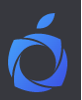
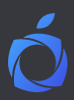
third

Changed region(s): [[0.0811, 0.33, 0.9189, 0.93], [0.4324, 0.12, 0.7568, 0.3], [0.973, 0.0, 1.0, 1.0]]

diff --git a/src/componenets/AppDownload/index.js b/src/componenets/AppDownload/index.js
@@ -4,35 +4,34 @@ import  "./style.css";
 import { FaTwitter,FaInstagram,FaTelegram} from "react-icons/fa";
 
 
-
 export default function AppDownload(){
 
   return(
     <Fragment>
-        <div className="holder">
+        <div className="holder1">
             <div className="about">
                <h3>About Us:</h3> This Website is for showing films and serials with reserving Copyright....
                <p>Download App</p>
             </div>
             <div>                
                 <div className="downloadPart">
-                    <div>
-                        <img src="../../public/assets/images/googleplay.png" />
-                        <div>
+                    <div className="ax-matn">
+                        <img src="/assets/images/googleplay.png" />
+                        <div className="matn">
                             <p>Download From </p>
                             <h4>Google Play</h4>
                         </div>
                     </div>
-                    <div>
-                        <img src="../../public/assets/images/bazar.png" />
-                        <div>
+                    <div className="ax-matn">
+                        <img src="/assets/images/bazar.png" />
+                        <div className="matn">
                             <p>Download From </p>
                             <h4>Bazar</h4>
                         </div>
                     </div>
-                    <div>
-                        <img src="../../public/assets/images/sibche.png" />
-                        <div>
+                    <div className="ax-matn">
+                        <img src="/assets/images/sibche.png" />
+                        <div className="matn">
                             <p>Download From </p>
                             <h4>Sibche</h4>
                         </div>                        

diff --git a/src/pages/SingleMovie/index.js b/src/pages/SingleMovie/index.js
@@ -4,6 +4,7 @@ import { useParams } from "react-router-dom";
 import  "./style.css";
 import Header from "../../componenets/Header";
 import Footer from "../../componenets/Footer";
+import AppDownload from "../../componenets/AppDownload";
 
 
 export default function SingleMovie(){
@@ -28,25 +29,27 @@ export default function SingleMovie(){
                 
         return   (
             <Fragment>
-                <div className="holder">
+                <div className="holder overflow">                    
                     <div class="posterHolder">
                         <img src={poster}></img>
                     </div>
-                    <h1>{movie.title}</h1>
-                    <h3>{country} - {year}</h3>
-                    <h3>{imdb_rating} - {imdb_votes}</h3>
-                    <div className="watch">WATCH</div>
-                </div>
-                
+                    <div className="filmDesc">
+                        <h1>{movie.title}</h1>
+                        <h3>{country} - {year}</h3>
+                        <h3>{imdb_rating} - {imdb_votes}</h3>
+                        <div className="watch">WATCH</div>
+                    </div>
+                </div>                
             </Fragment>
         )
         } 
                                                         
     return(
         <Fragment>  
-            <Header></Header>          
+            <Header />       
                {renderPage()} 
-            <Footer></Footer>   
+            {/* <AppDownload />    */}
+            <Footer />   
         </Fragment>
     )
 }

diff --git a/src/pages/SingleGenre/index.js b/src/pages/SingleGenre/index.js
@@ -2,6 +2,9 @@ import axios from "axios";
 import { Fragment, useState, useEffect } from "react";
 import { useParams , Link } from "react-router-dom";
 import  "./style.css";
+import Header from "../../componenets/Header";
+import Footer from "../../componenets/Footer";
+
 
 export default function SingleGenre(){
 
@@ -26,10 +29,10 @@ export default function SingleGenre(){
                  return movies.map(function(film){
                             const {id , poster , title} = film;
                             return(
-                                    <li key={id}>
+                                    <li key={id} >
                                         <Link to={`/SingleMovie/${id}`} >
                                             <img src={poster} />
-                                            <h4>{title}</h4>
+                                            <h4 className="filmDetail">{title}</h4>
                                         </Link>    
                                     </li>
                                    )
@@ -38,8 +41,12 @@ export default function SingleGenre(){
         } 
                                                         
     return(
-        <Fragment>            
-               {renderPage()} 
+        <Fragment> 
+            <Header />  
+                <ul className="filmList">         
+                    {renderPage()} 
+                </ul> 
+            <Footer />  
         </Fragment>
     )
 }

diff --git a/src/pages/SingleMovie/style.css b/src/pages/SingleMovie/style.css
@@ -1,19 +1,38 @@
+*,*:after , *:before{
+    box-sizing: border-box;
+}
+.overflow{
+    overflow: hidden;
+}
 .holder{
     width:1500px;
-    margin: 0 auto;
+    height:90vh;
+    margin: 15px auto;
     background: #7F7F7F;
     display: flex;
     flex-direction: column;
     justify-content: center;
     align-items: center;
+    border-radius: 10px;
+    position: relative;
 }
 .posterHolder{
     width:1400px;
     height:500px;
     margin: 0 auto;
+    position: absolute;
+    top:0;
+}
+.filmDesc{
+    position: absolute;
+    bottom: 50px;
+    display: flex;
+    flex-direction: column;
+    align-items: center;
+    justify-content: center;
 }
 .posterHolder img{
-    width:100%;
+    width: 100%;
     height: 100%;
     object-fit: cover;    
     border-bottom-left-radius: 20px;

diff --git a/src/componenets/AppDownload/style.css b/src/componenets/AppDownload/style.css
@@ -1,10 +1,11 @@
-.holder{
+.holder1{
     width:1200px;
     height:300px;
     border-radius: 10px;
     margin: 15px auto;
     background: #303030;
     position: relative;
+    color: #fff;
 }
 .about{
     position: absolute;
@@ -23,12 +24,27 @@
     bottom: 80px;
 }
 .downloadPart div img{
-    width:30px;
-    height:30px;
+    width:40px;
+    height:40px;
 }
-.downloadPart div{
+.ax-matn{
     display: flex;
     flex-direction: row;
+    justify-content: center;
+    align-items: center;
+    margin: 3px;
+}
+.matn{
+    display: flex;
+    flex-direction: column;
+    align-items: center;
+    justify-content: center;
+    margin: 3px;
+}
+.matn h4{
+    margin: 0;
+}
+.downloadPart div{
     padding:5px;
     border-radius: 10px;
     background-color: #37383E;

diff --git a/src/componenets/Header/index.js b/src/componenets/Header/index.js
@@ -12,7 +12,7 @@ export default function Header(){
                 <li>
                     <ul className="filmMenu">
                       <li>
-                        <img src="../../public/assets/images/icon.png" />
+                        <img src="/assets/images/icon1.png" />
                       </li>
                       <li>
                         <Link to="/">Home</Link>

diff --git a/src/componenets/Footer/style.css b/src/componenets/Footer/style.css
@@ -27,7 +27,7 @@ a{
 .footerMenu{    
     background: #000;
     height:40px;
-    padding: 5px 0;
+    padding: 10px 0;
     color: #fff;
     width:100%;
 } 

diff --git a/src/pages/SingleGenre/style.css b/src/pages/SingleGenre/style.css
@@ -1,0 +1,10 @@
+.filmList{
+    display: flex;
+    flex-direction: row;    
+}
+.filmDetail{
+    color:#fff;
+}
+.filmDetail:hover{
+    color:#FFC90E;
+}

diff --git a/src/componenets/Header/style.css b/src/componenets/Header/style.css
@@ -47,4 +47,8 @@ a{
 .filmMenu a:hover{
     color: #FFC90E;
 }
+.filmMenu img{
+    width:80px;
+    height:30px;
+}
 
